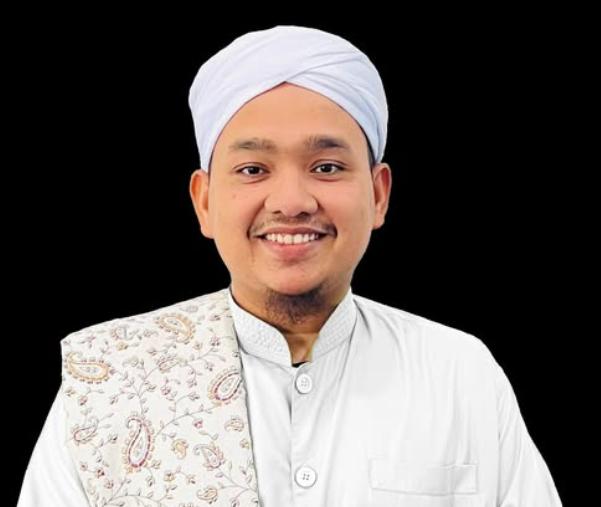
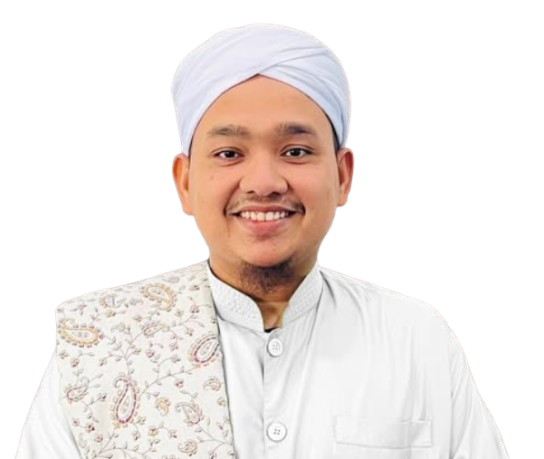
improve layout

diff --git a/src/routes/login.tsx b/src/routes/login.tsx
@@ -1,7 +1,7 @@
 import { useEffect, useState } from "react";
 import { createFileRoute, Link, useNavigate } from "@tanstack/react-router";
 import { signInWithEmailAndPassword } from "firebase/auth";
-import { AlertCircle, Lock, Mail, Moon } from "lucide-react";
+import { AlertCircle, Eye, EyeOff, Lock, Mail, Moon } from "lucide-react";
 import { getFirebase } from "@/lib/firebase";
 import { useAuthUser } from "@/hooks/useAuthUser";
 import arabesque from "@/assets/arabesque.jpg";
@@ -10,9 +10,15 @@ export const Route = createFileRoute("/login")({
   head: () => ({
     meta: [
       { title: "Log Masuk — Surau Seri Dahlia" },
-      { name: "description", content: "Akses pengurusan aktiviti Surau Seri Dahlia." },
+      {
+        name: "description",
+        content: "Akses pengurusan aktiviti Surau Seri Dahlia.",
+      },
       { property: "og:title", content: "Log Masuk — Surau Seri Dahlia" },
-      { property: "og:description", content: "Akses pengurusan aktiviti Surau Seri Dahlia." },
+      {
+        property: "og:description",
+        content: "Akses pengurusan aktiviti Surau Seri Dahlia.",
+      },
     ],
   }),
   component: LoginPage,
@@ -23,6 +29,7 @@ function LoginPage() {
   const { user, ready } = useAuthUser();
   const [email, setEmail] = useState("");
   const [password, setPassword] = useState("");
+  const [showPassword, setShowPassword] = useState(false);
   const [error, setError] = useState<string | null>(null);
   const [loading, setLoading] = useState(false);
 
@@ -33,11 +40,14 @@ function LoginPage() {
   async function onSubmit(e: React.FormEvent) {
     e.preventDefault();
     setError(null);
+
     if (!email.trim() || !password) {
       setError("Sila isi e-mel dan kata laluan.");
       return;
     }
+
     setLoading(true);
+
     try {
       const { auth } = await getFirebase();
       await signInWithEmailAndPassword(auth, email.trim(), password);
@@ -57,14 +67,21 @@ function LoginPage() {
         aria-hidden
         className="fixed inset-0 h-full w-full object-cover opacity-20"
       />
+
       <div className="fixed inset-0 bg-gradient-to-br from-background via-emerald-dark to-background" />
 
       <div className="glass-panel relative w-full max-w-md rounded-3xl border-gold/30 p-8 backdrop-blur-xl">
         <div className="mx-auto grid h-20 w-20 place-items-center rounded-full border-4 border-gold/70 bg-cream">
           <Moon className="h-9 w-9 text-emerald-deep" />
         </div>
-        <h1 className="mt-6 text-center font-serif text-4xl font-bold text-gold">Log Masuk</h1>
-        <p className="mt-2 text-center text-sm text-cream/70">Akses Pengurusan Surau Seri Dahlia</p>
+
+        <h1 className="mt-6 text-center font-serif text-4xl font-bold text-gold">
+          Log Masuk
+        </h1>
+
+        <p className="mt-2 text-center text-sm text-cream/70">
+          Akses Pengurusan Surau Seri Dahlia
+        </p>
 
         {error && (
           <div className="mt-5 flex items-start gap-2 rounded-xl border border-destructive/50 bg-destructive/15 px-3 py-2 text-sm text-destructive-foreground">
@@ -75,11 +92,16 @@ function LoginPage() {
 
         <form onSubmit={onSubmit} className="mt-6 space-y-4">
           <div>
-            <label htmlFor="email" className="text-sm font-semibold text-cream">
+            <label
+              htmlFor="email"
+              className="text-sm font-semibold text-cream"
+            >
               E-mel
             </label>
+
             <div className="mt-1.5 flex items-center gap-2 rounded-xl border border-gold/30 bg-emerald-dark/60 px-3">
               <Mail className="h-4 w-4 text-gold" />
+
               <input
                 id="email"
                 type="email"
@@ -94,21 +116,42 @@ function LoginPage() {
           </div>
 
           <div>
-            <label htmlFor="password" className="text-sm font-semibold text-cream">
+            <label
+              htmlFor="password"
+              className="text-sm font-semibold text-cream"
+            >
               Kata Laluan
             </label>
+
             <div className="mt-1.5 flex items-center gap-2 rounded-xl border border-gold/30 bg-emerald-dark/60 px-3">
-              <Lock className="h-4 w-4 text-gold" />
+              <Lock className="h-4 w-4 shrink-0 text-gold" />
+
               <input
                 id="password"
-                type="password"
+                type={showPassword ? "text" : "password"}
                 autoComplete="current-password"
                 maxLength={128}
                 value={password}
                 onChange={(e) => setPassword(e.target.value)}
                 placeholder="••••••••"
-                className="w-full bg-transparent py-3 text-cream placeholder:text-cream/40 focus:outline-none"
+                className="w-full min-w-0 bg-transparent py-3 text-cream placeholder:text-cream/40 focus:outline-none"
               />
+
+              <button
+                type="button"
+                onClick={() => setShowPassword((prev) => !prev)}
+                className="shrink-0 p-1 text-cream/60 transition-colors hover:text-gold focus:outline-none"
+                aria-label={
+                  showPassword ? "Sembunyikan kata laluan" : "Tunjukkan kata laluan"
+                }
+                title={showPassword ? "Sembunyikan kata laluan" : "Tunjukkan kata laluan"}
+              >
+                {showPassword ? (
+                  <EyeOff className="h-5 w-5" />
+                ) : (
+                  <Eye className="h-5 w-5" />
+                )}
+              </button>
             </div>
           </div>
 
@@ -122,7 +165,10 @@ function LoginPage() {
         </form>
 
         <div className="mt-6 text-center">
-          <Link to="/" className="text-sm text-cream/60 transition-colors hover:text-gold">
+          <Link
+            to="/"
+            className="text-sm text-cream/60 transition-colors hover:text-gold"
+          >
             ← Kembali ke Paparan Utama
           </Link>
         </div>
@@ -130,3 +176,5 @@ function LoginPage() {
     </main>
   );
 }
+
+

diff --git a/src/components/surau/LiveNowCard.tsx b/src/components/surau/LiveNowCard.tsx
@@ -1,17 +1,28 @@
 import { CalendarDays, Clock, Play } from "lucide-react";
-import quranLantern from "@/assets/quran-lantern.jpg";
+// import quranLantern from "@/assets/quran-lantern.jpg";
+import quranBackground from "@/assets/system/quran.jpg";
 import { formatShortMalayDate, masaDisplay, timeRangeDisplay, type Activity } from "@/lib/surau";
 import { getLiveSpeakerPhoto } from "@/lib/speakerPhoto";
 
 export function LiveNowCard({ activity }: { activity: Activity | null }) {
   const speakerPhoto = activity ? getLiveSpeakerPhoto(activity.penceramah, activity.tajuk) : null;
-  const heroImage = speakerPhoto ?? quranLantern;
+  // const heroImage = speakerPhoto ?? quranLantern;
+  const heroImage = speakerPhoto; 
   return (
     <div
       className={`glass-panel group relative isolate overflow-hidden rounded-3xl ${
         activity ? "lg:min-h-[clamp(24rem,44vh,36rem)]" : "lg:min-h-[clamp(14rem,25vh,22rem)]"
       }`}
     >
+      <img
+        src={quranBackground}
+        alt=""
+        aria-hidden="true"
+        className="absolute inset-0 h-full w-full object-cover"
+      />
+      <div className="absolute inset-y-0 right-0 w-[58%] bg-gradient-to-l from-emerald-dark/10 via-transparent to-transparent" />
+      <div className="absolute inset-0 bg-[linear-gradient(90deg,rgba(9,28,23,0.9)_0%,rgba(9,28,23,0.78)_18%,rgba(9,28,23,0.62)_30%,rgba(9,28,23,0.44)_46%,rgba(9,28,23,0.2)_60%,rgba(9,28,23,0.05)_76%,rgba(9,28,23,0)_100%)]" />
+      <div className="absolute inset-0 bg-gradient-to-t from-emerald-dark/45 via-transparent to-emerald-dark/5" />
       <img
         src={heroImage}
         alt={activity ? activity.penceramah || activity.tajuk : "Suasana kelas Al-Quran di surau"}
@@ -23,9 +34,6 @@ export function LiveNowCard({ activity }: { activity: Activity | null }) {
             : "opacity-45 saturate-90"
         }`}
       />
-      <div className="absolute inset-y-0 right-0 w-[58%] bg-gradient-to-l from-emerald-dark/5 via-transparent to-transparent" />
-      <div className="absolute inset-0 bg-[linear-gradient(90deg,rgba(9,28,23,0.96)_0%,rgba(9,28,23,0.9)_18%,rgba(9,28,23,0.8)_30%,rgba(9,28,23,0.65)_46%,rgba(9,28,23,0.38)_60%,rgba(9,28,23,0.12)_76%,rgba(9,28,23,0)_100%)]" />
-      <div className="absolute inset-0 bg-gradient-to-t from-emerald-dark/70 via-transparent to-emerald-dark/10" />
       <div className="relative flex h-full min-h-[inherit] flex-col justify-center p-5 sm:p-6 lg:max-w-[68%] lg:p-[clamp(1.25rem,2vw,2.5rem)]">
         <span className="inline-flex w-fit items-center gap-2 rounded-xl bg-destructive px-3 py-2 text-xs font-extrabold tracking-[0.12em] text-destructive-foreground shadow-lg shadow-destructive/20 sm:text-sm">
           <Play className="h-4 w-4 fill-current" /> LANGSUNG SEKARANG

diff --git a/src/routes/index.tsx b/src/routes/index.tsx
@@ -64,22 +64,14 @@ function Dashboard() {
             </div>
           </section>
 
-          <section className="flex flex-col gap-4 lg:col-span-4 lg:min-h-0">
-            <div className="min-h-0 flex-[1.4]">
+          <section className="grid grid-cols-1 gap-4 lg:col-span-4 lg:min-h-0 lg:grid-cols-2 lg:grid-rows-[minmax(17rem,1fr)_auto_auto]">
+            <div className="min-h-0 lg:col-span-2 lg:row-start-1">
               <QurbanCard />
             </div>
-            <div className="self-end lg:w-[55%] lg:min-h-0 lg:flex-[0.6]">
+            <div className="self-end lg:col-start-2 lg:row-start-2 lg:w-[82%] lg:justify-self-end">
               <HadisCard />
             </div>
-            <div className="grid grid-cols-1 gap-4 sm:grid-cols-2 lg:h-[min(30%,15rem)] lg:min-h-44">
-              <div className="hidden rounded-3xl border border-gold/20 bg-emerald-dark/60 p-5 sm:block">
-                <p className="text-xs font-extrabold tracking-[0.25em] text-gold uppercase">
-                  Cahaya Islam
-                </p>
-                <p className="mt-5 font-serif text-3xl leading-tight text-cream xl:text-4xl">
-                  Ilmu menerangi hati dan menguatkan ummah.
-                </p>
-              </div>
+            <div className="lg:col-start-1 lg:row-start-3 lg:w-[90%] lg:justify-self-start">
               <QrCard />
             </div>
           </section>

diff --git a/src/components/surau/SideTiles.tsx b/src/components/surau/SideTiles.tsx
@@ -35,19 +35,19 @@ export function HadisCard() {
 
 export function QrCard() {
   return (
-    <div className="flex flex-col items-center rounded-3xl border border-gold/25 bg-cream p-5 text-emerald-dark">
+    <div className="flex flex-col items-center rounded-3xl border border-gold/25 bg-cream p-3 text-emerald-dark">
       <p className="text-xs font-extrabold tracking-widest text-emerald-deep uppercase">
         Imbas Untuk Menyumbang
       </p>
       <p className="text-[0.7rem] text-bronze">DuitNow QR</p>
-      <div className="mt-3 grid aspect-square w-full max-w-[190px] place-items-center rounded-2xl border-2 border-dashed border-bronze/40 bg-white p-2">
+      <div className="mt-1 grid aspect-square w-full max-w-[220px] place-items-center rounded-2xl border-2 border-dashed border-bronze/40 bg-white p-1.5">
         <img
           src={qrImage}
           alt="Kod QR sumbangan Surau Seri Dahlia"
           className="h-full w-full rounded-xl object-contain"
         />
       </div>
-      <p className="mt-3 text-sm font-bold text-emerald-deep">Surau Seri Dahlia</p>
+      <p className="mt-1 text-sm font-bold text-emerald-deep">Surau Seri Dahlia</p>
     </div>
   );
 }

diff --git a/src/styles.css b/src/styles.css
@@ -6,7 +6,7 @@
 @source "../src";
 @import "tw-animate-css";
 
-@custom-variant dark (&:is(.dark *));
+@custom-variant dark (&:is(.dark *));   
 
 /*
  * Design system definition.
